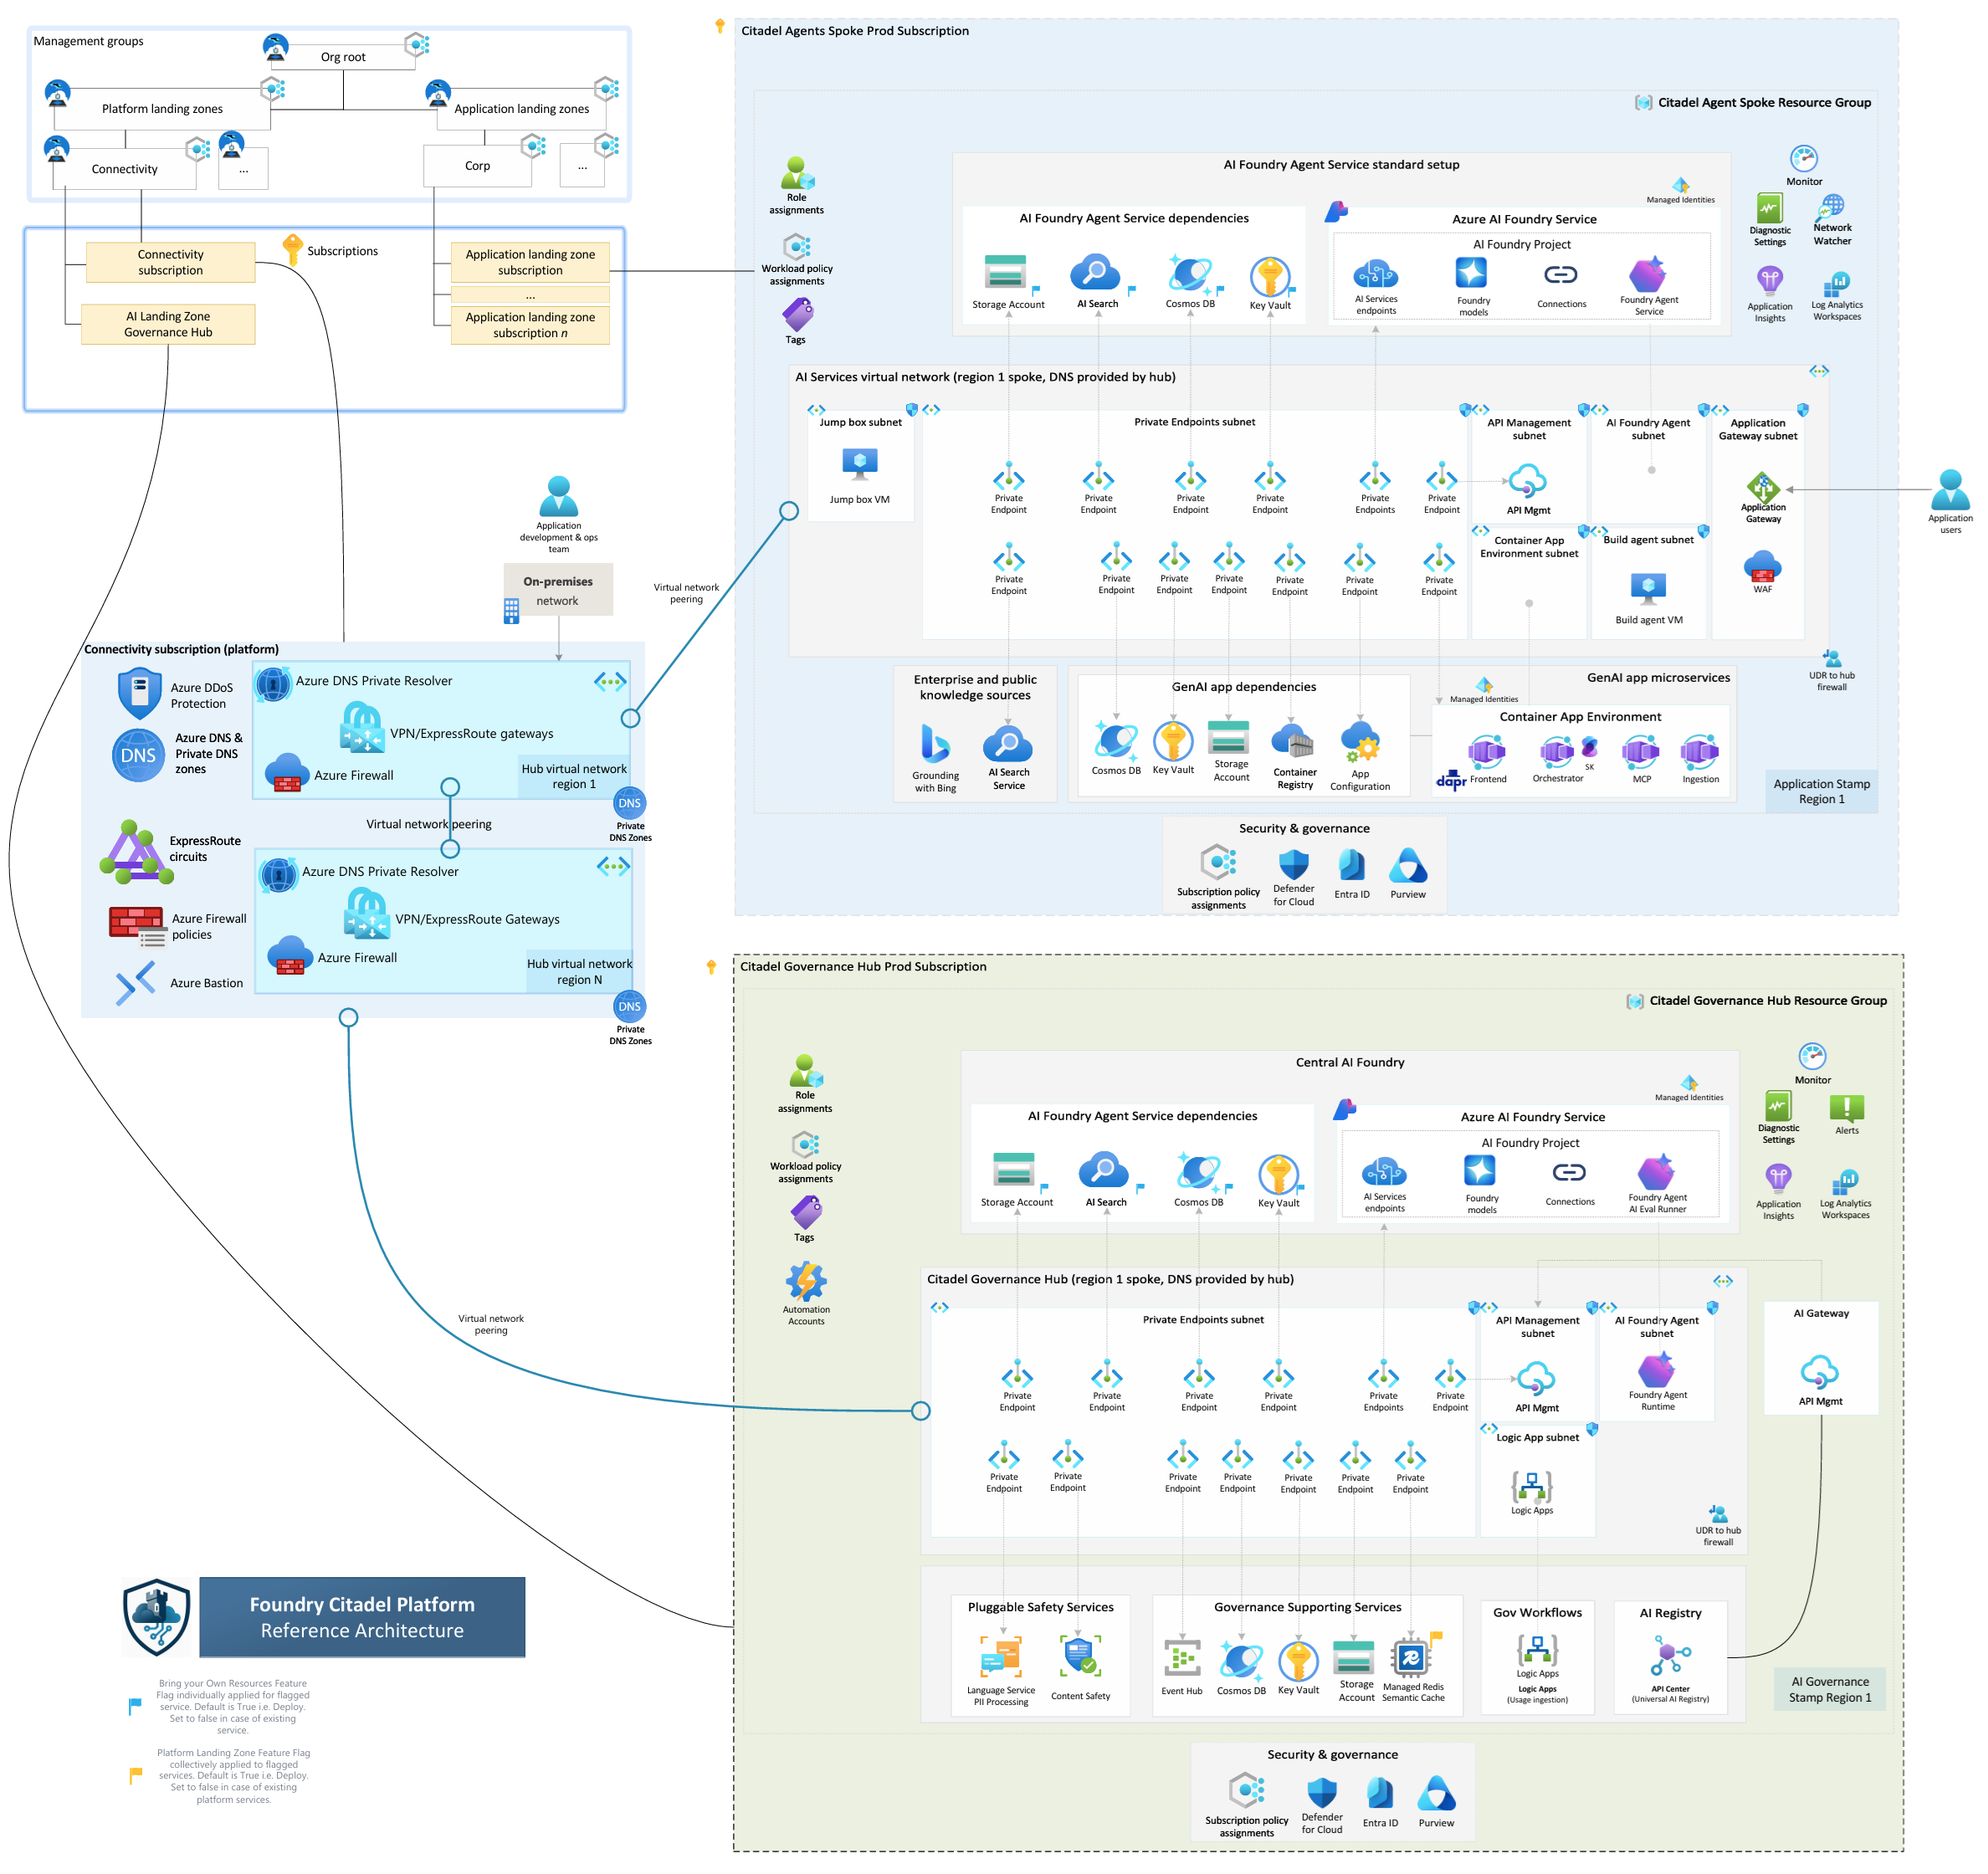
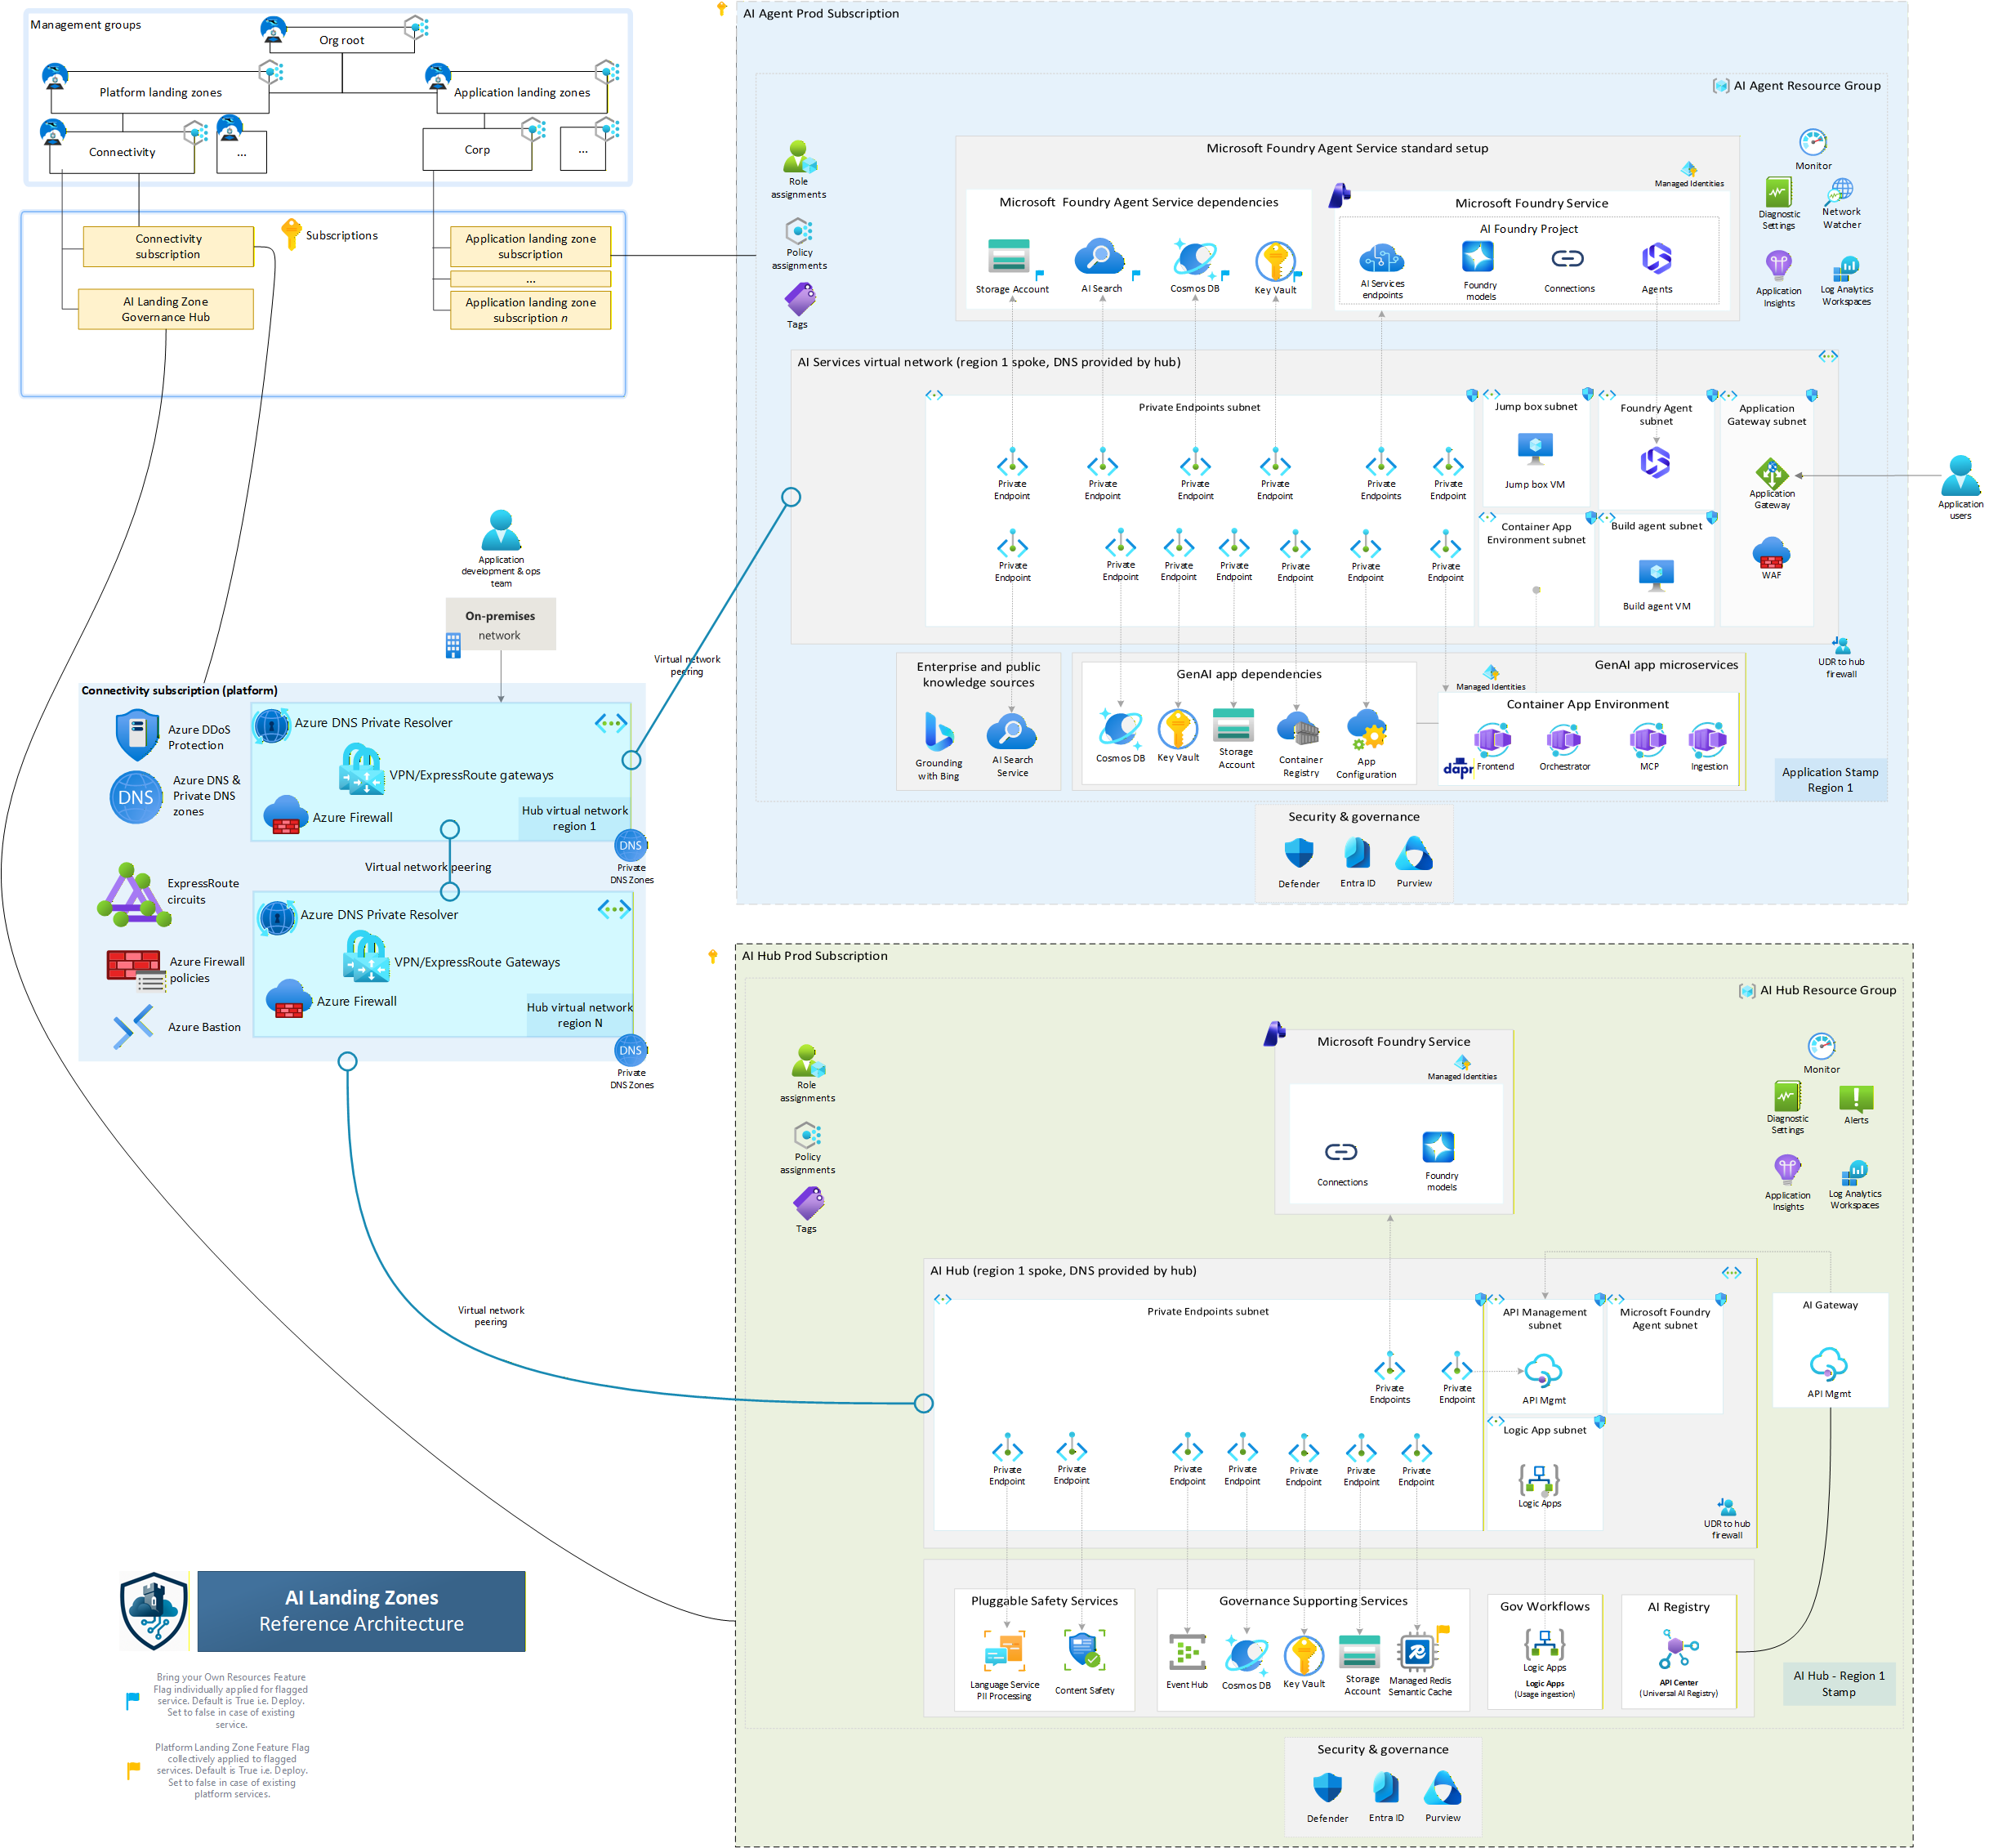
Merge pull request #88 from mohamedsaif/citadel-v1
Updated architectures

Pull request: Updated architectures
This pull request updates the `README.md` to clarify terminology and improve descriptions of key components and deployment patterns in the Citadel Governance Hub documentation. The changes focus on improving accuracy and consistency in naming and providing more detailed explanations of governance features.

Documentation improvements:

* Updated the description of `src/usage-ingestion-logicapp` to clarify that it now includes other governance workflows in addition to processing usage/log streams.
* Replaced references to "Citadel Agent Spoke" with "Citadel Agent Environment" for consistency and clarity, and updated related deployment notes to reflect this terminology.
* Updated the description of safety and security guardrails to specify examples such as content safety, PII handling, and OAuth scopes.
* Clarified that integration with the Citadel Governance Hub is achieved through "Citadel Access Contracts" instead of "Citadel Access & Publish Contracts."

diff --git a/README.md b/README.md
@@ -38,8 +38,7 @@ For a detailed stakeholder- and capability-level breakdown, see [Governance Hub 
 At a high level, the accelerator includes:
 
 - [bicep/infra](./bicep/infra): main IaC entrypoint and modules for provisioning the hub.
-- [src/usage-ingestion-logicapp](./src/usage-ingestion-logicapp): Logic App workflows for processing usage/log streams.
-- [src/usage-ingestion-function](./src/usage-ingestion-function): .NET Azure Function(s) supporting ingestion and processing.
+- [src/usage-ingestion-logicapp](./src/usage-ingestion-logicapp): Logic App workflows for processing usage/log streams and other governance workflows.
 - [validation](./validation): Jupyter notebooks for post-deployment validation and onboarding.
 - [guides](./guides): operational and architecture documentation.
 
@@ -136,7 +135,7 @@ Leverage **Citadel Access Contracts** to declare the required access to LLMs, to
 
 #### New agents
 
-Building new agents is accelerated through the **Citadel Agent Spoke** landing zone guidance, which provides isolated, secure environments designed specifically for AI agent development and deployment. Each spoke serves a single business unit or major use case, ensuring clear boundaries, simplified management, and integration with the Citadel Governance Hub for centralized governance.
+Building new agents is accelerated through the **Citadel Agent Environment** landing zone guidance, which provides isolated, secure environments designed specifically for AI agent development and deployment. Each spoke serves a single business unit or major use case, ensuring clear boundaries, simplified management, and integration with the Citadel Governance Hub for centralized governance.
 
 For detailed guidance, see [AI App Landing Zone Repo](https://github.com/Azure/AI-Landing-Zones).
 
@@ -144,13 +143,13 @@ For detailed guidance, see [AI App Landing Zone Repo](https://github.com/Azure/A
 - **One spoke per business unit or use case** - Dedicated environments for insurance claims processing, customer support automation, or other agentic scenarios
 - **Flexible runtime options** - Choose between Microsoft Foundry Agents (fully managed runtime) or Azure Container Apps (bring-your-own-agent)
 - **Pre-configured infrastructure** - Automated deployment via Bicep or Terraform with all networking, security, and monitoring built-in
-- **Hub integration** - Seamless connection to Citadel Governance Hub through Citadel Access & Publish Contracts
+- **Hub integration** - Seamless connection to Citadel Governance Hub through **Citadel Access Contracts**
 
 **Deployment Patterns:**
 - **Greenfield (Standalone with New Resources)** - Creates all infrastructure from scratch with new VNet and Log Analytics workspace
 - **Brownfield (Standalone with Existing Resources)** - Integrates with existing enterprise landing zones, reusing VNets and centralized monitoring
 
-> **Note:** Citadel Agent Spoke deployment supports the AI development velocity pillar and is designed to work in conjunction with Citadel Governance Hub. Multiple spokes can connect to a single hub for unified governance and observability.
+> **Note:** Citadel Agent Environment deployment supports the AI development velocity pillar and is designed to work in conjunction with Citadel Governance Hub. Multiple environments can connect to a single hub for unified governance and observability.
 
 ---
 
@@ -162,7 +161,7 @@ Citadel Governance Hub seamlessly integrates with **Citadel compliant Agents** e
 Declares the governed dependencies an agent needs—LLMs, AI services, tools, and reusable agents—along with precise access policies:
 - Model selection and capacity allocation
 - Regional preferences and compliance requirements
-- Safety and security guardrails
+- Safety and security guardrails (content safety, PII handling, OAuth scopes,...)
 - Usage quotas and cost limits
 
 ### 📤 **AI Publish Contract**